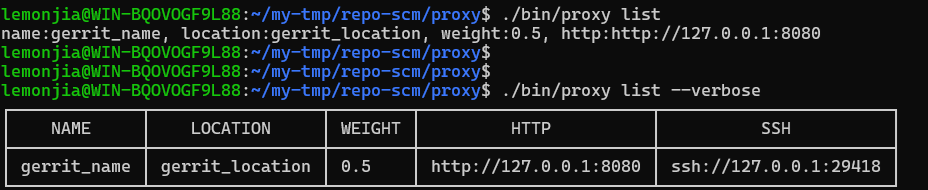
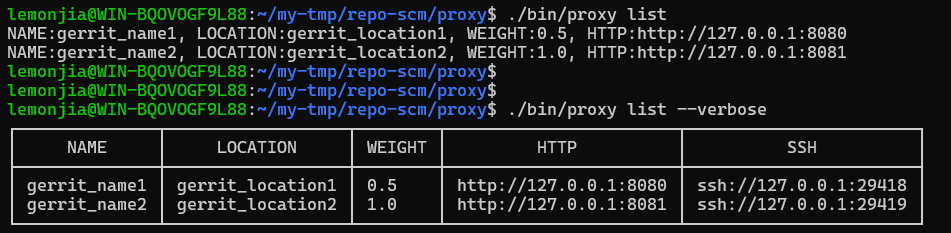
refactor(cmd): refactor code for list command

diff --git a/cmd/list.go b/cmd/list.go
@@ -42,7 +42,7 @@ func runList(ctx context.Context, cfg *config.Config) error {
 	}
 
 	for key, val := range cfg.Gerrits {
-		fmt.Printf("name:%s, location:%s, weight:%.1f, http:%s\n", key, val.Location, val.Weight, val.Http.Url)
+		fmt.Printf("NAME:%s, LOCATION:%s, WEIGHT:%.1f, HTTP:%s\n", key, val.Location, val.Weight, val.Http.Url)
 	}
 
 	return nil
